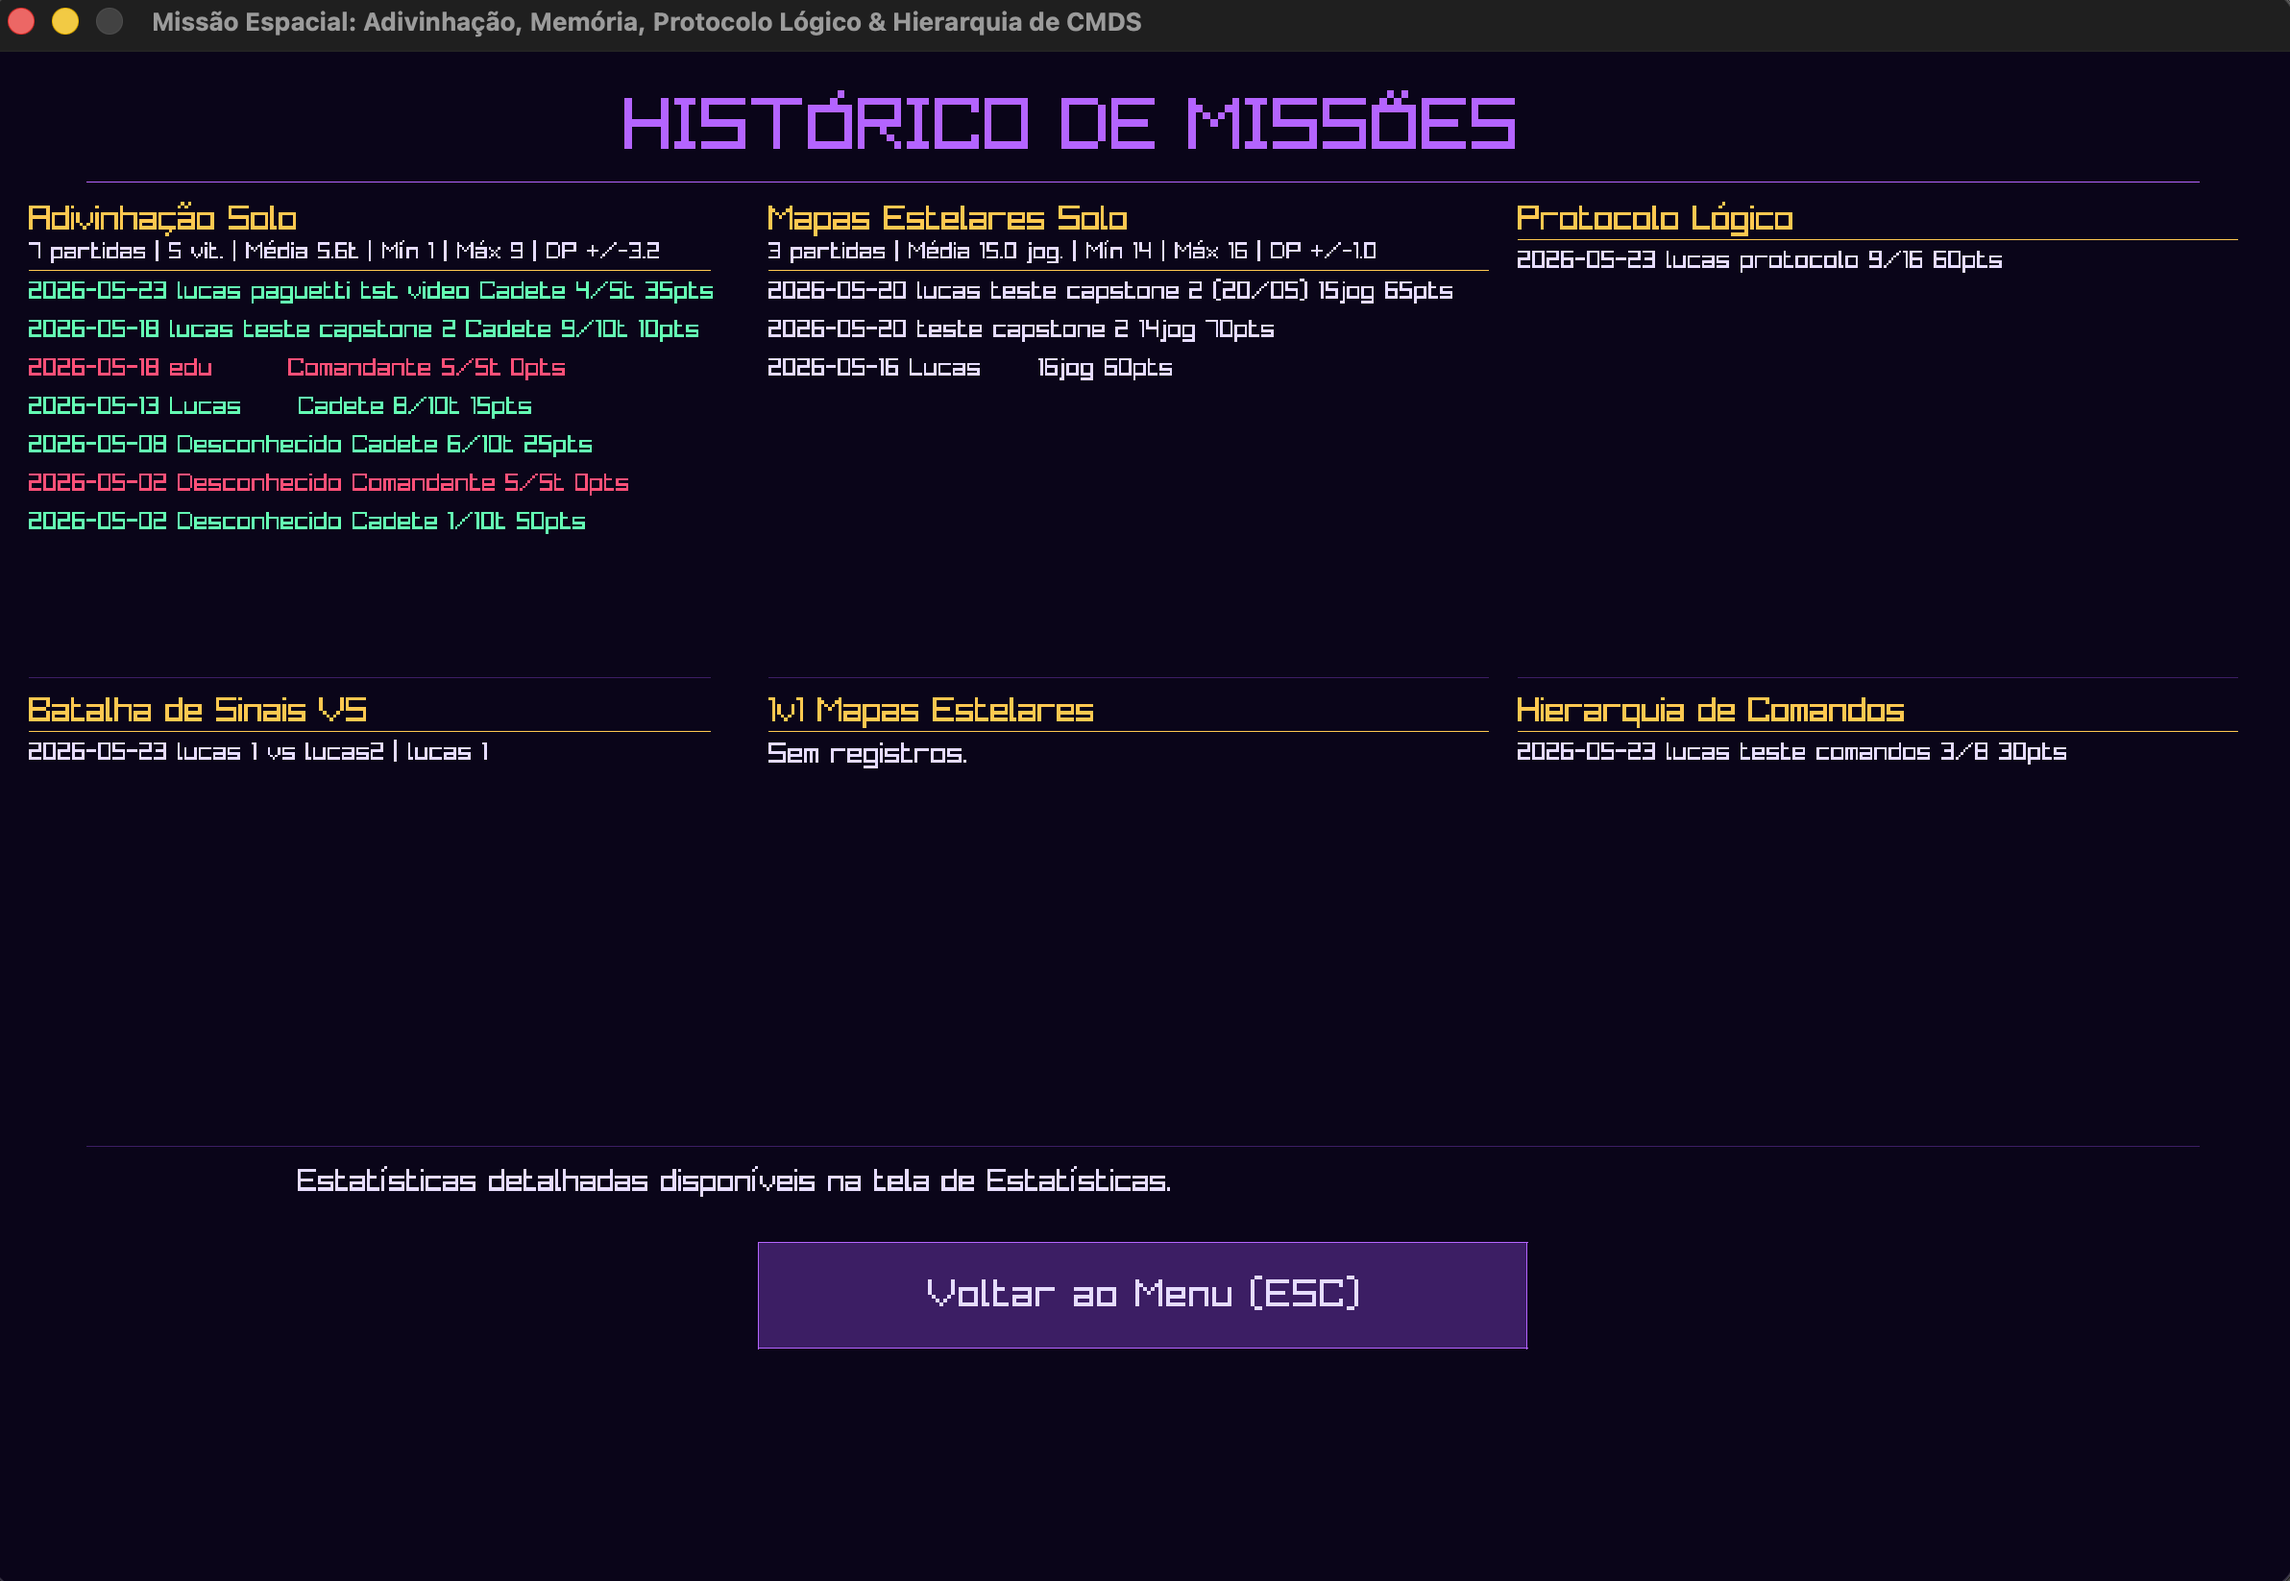
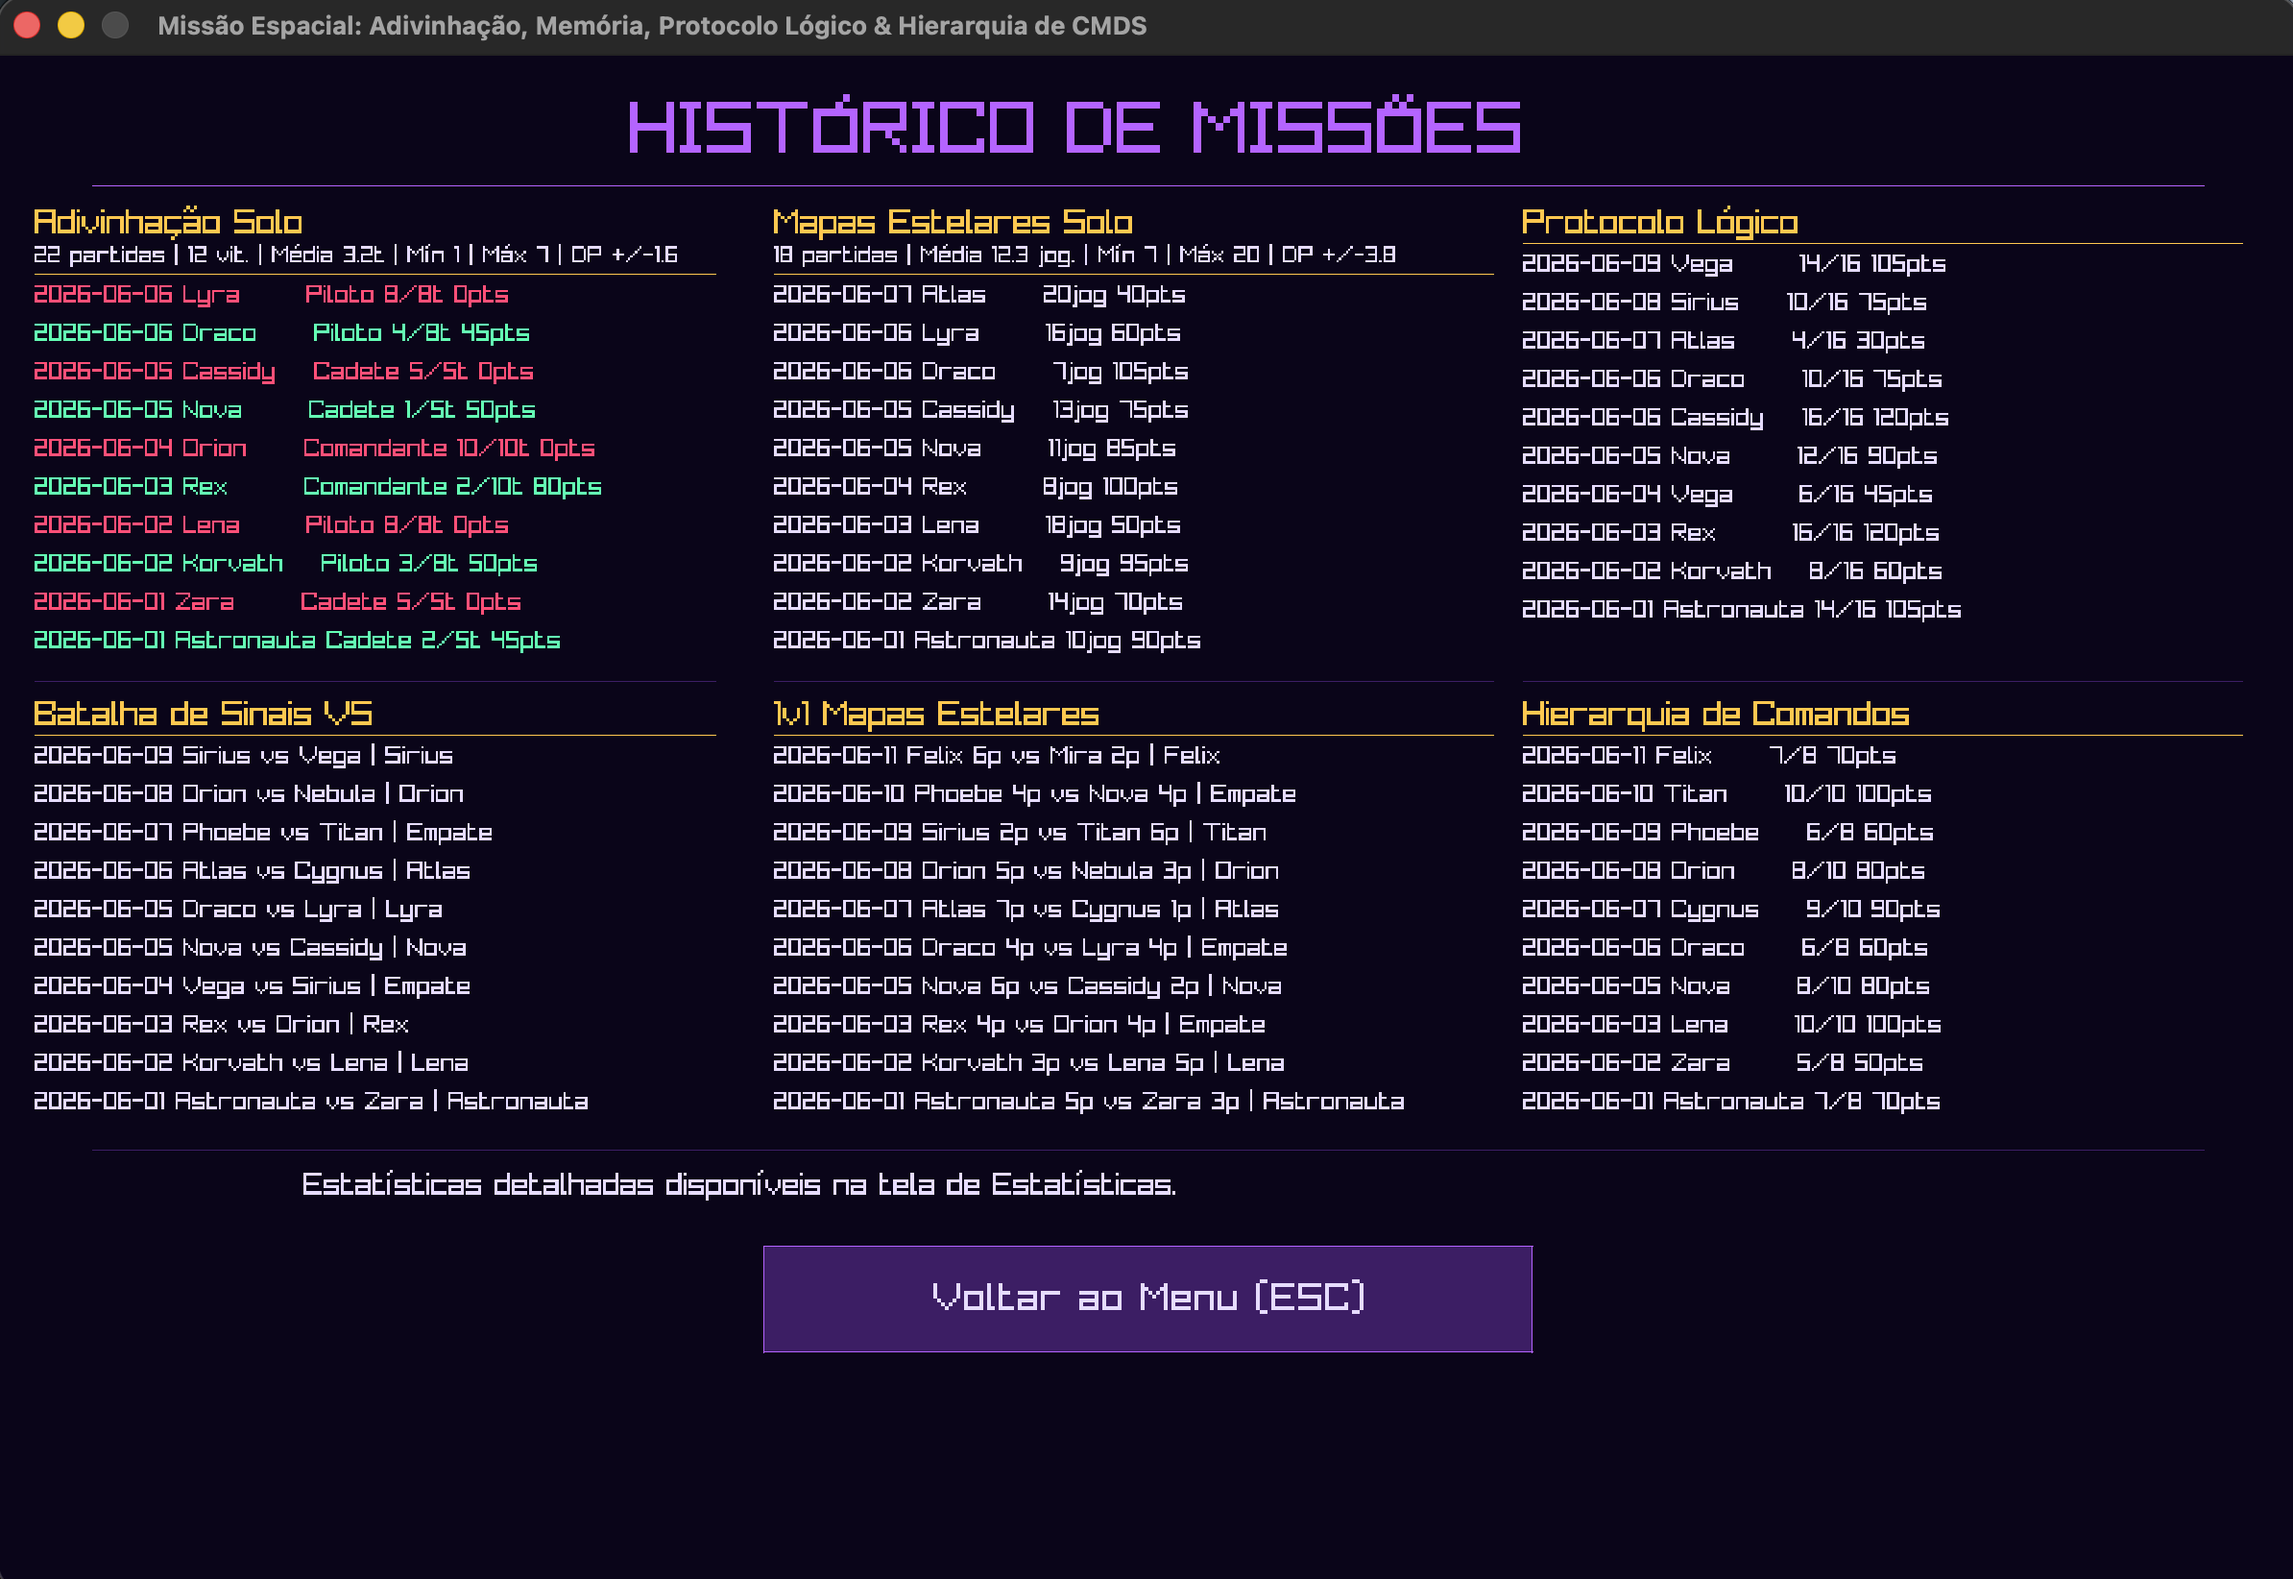
docs: update nas imagens do histórico do jogo e do Trello (Board) do grupo

Changed region(s): [[0.0, 0.0, 0.8691, 0.8686], [0.6518, 0.4343, 0.9002, 0.7135], [0.9933, 0.9927, 1.0, 1.0]]

diff --git a/README.md b/README.md
@@ -421,7 +421,7 @@ Jogo-da-Adivinhacao/
 </pre>
 
 
-<h3 align="center"> 🚀 Backlog e Boarding (Trello) </h3>
+<h3 align="center"> 🚀 Backlog e Boarding (Trello Final) </h3>
 <p align="center">
   <strong>Status:</strong> 28 histórias de usuário implementadas e 16 futuras, definidas seguindo o padrão 3Cs e priorizadas no backlog.
 </p>
@@ -495,8 +495,6 @@ Jogo-da-Adivinhacao/
 | **HU‑E4‑04** | Como **jogador**, quero que o campo de nome ofereça **autocomplete** com os nomes já salvos para que o preenchimento seja mais rápido e sem erros de digitação | `historico.c` |
 | **HU‑E4‑05** | Como **jogador**, quero acessar todos os **6 modos de jogo na versão Raylib** com timers e lógica de bônus/penalidade plenamente integrados para uma experiência visual completa | `frontend.c` / `tipos.h` |
 | **HU‑E4‑06** | Como **desenvolvedor**, quero que o projeto compile **sem ajustes manuais** em Windows (MSYS2/MinGW) e Linux (Ubuntu) para que qualquer integrante possa contribuir na sua plataforma | `Makefile` |
-
-<br>
 
 <h2 align="center">🏆 Capstone 3 PIF — Projeto Polido e Documentado</h2>
 
@@ -642,7 +640,7 @@ Jogo-da-Adivinhacao/
 <br>
 
 <table align="center" width="780">
-  <tr><th align="center">📜 Histórico de Missões</th></tr>
+  <tr><th align="center">📜 Histórico de Missões (100+ sessões)</th></tr>
   <tr><td align="center"><b>Registro completo em colunas por modo — Adivinhação Solo, Mapas Estelares, Protocolo Lógico, Batalha de Sinais VS, 1v1 Mapas Estelares e Hierarquia de Comandos — com data, nome, dificuldade, tentativas e pontuação de cada sessão.</b></td></tr>
   <tr><td align="center"><img src="img/historico.png" width="750" alt="Histórico de Missões"/></td></tr>
 </table>
